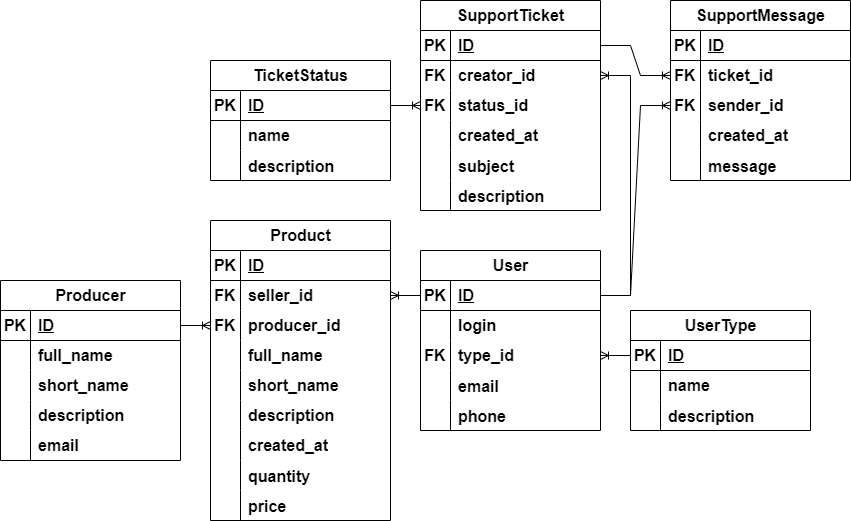
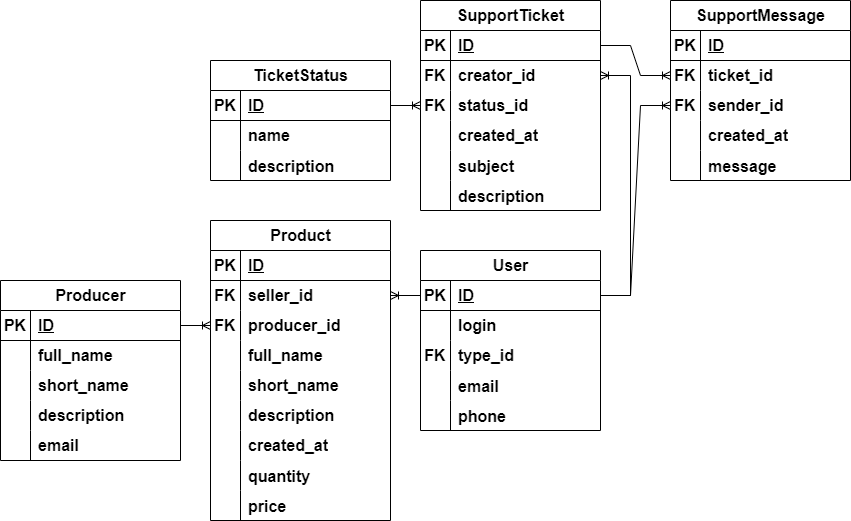
Fixed: wrong group number in titile.png, excess class in ER.png, containers building being commented in Vagrantfile. Removed: excess options which prevented it working.

Changed region(s): [[0.7027, 0.6449, 0.886, 0.8292], [0.7944, 0.6142, 0.886, 0.6449]]

diff --git a/virtual/django/goods_catalog/settings.py b/virtual/django/goods_catalog/settings.py
@@ -99,11 +99,7 @@ DATABASES = {
 CACHES = {
     'default': {
         'BACKEND': 'django_redis.cache.RedisCache',
-        'LOCATION': 'redis://redis:6379/1',
-        'OPTIONS': {
-            'CLIENT_CLASS': 'django_redis.client.DefaultClient',
-        },
-        'TIMEOUT': 30,  # Кэш будет сохраняться 5 минут
+        'LOCATION': 'redis://redis:6379',
     }
 }
 

diff --git a/virtual/django/catalog/views.py b/virtual/django/catalog/views.py
@@ -71,7 +71,7 @@ class DeleteProduct(LoginRequiredMixin, DeleteView):
         return product
 
 # Декорируем функцию для кэширования
-@cache_page(300)  # Кэш на 5 минут
+@cache_page(60 * 15)  # Кэш на 5 минут
 def catalog(request):
     query = request.GET.get('query', '')
     producer_id = request.GET.get('producer')
